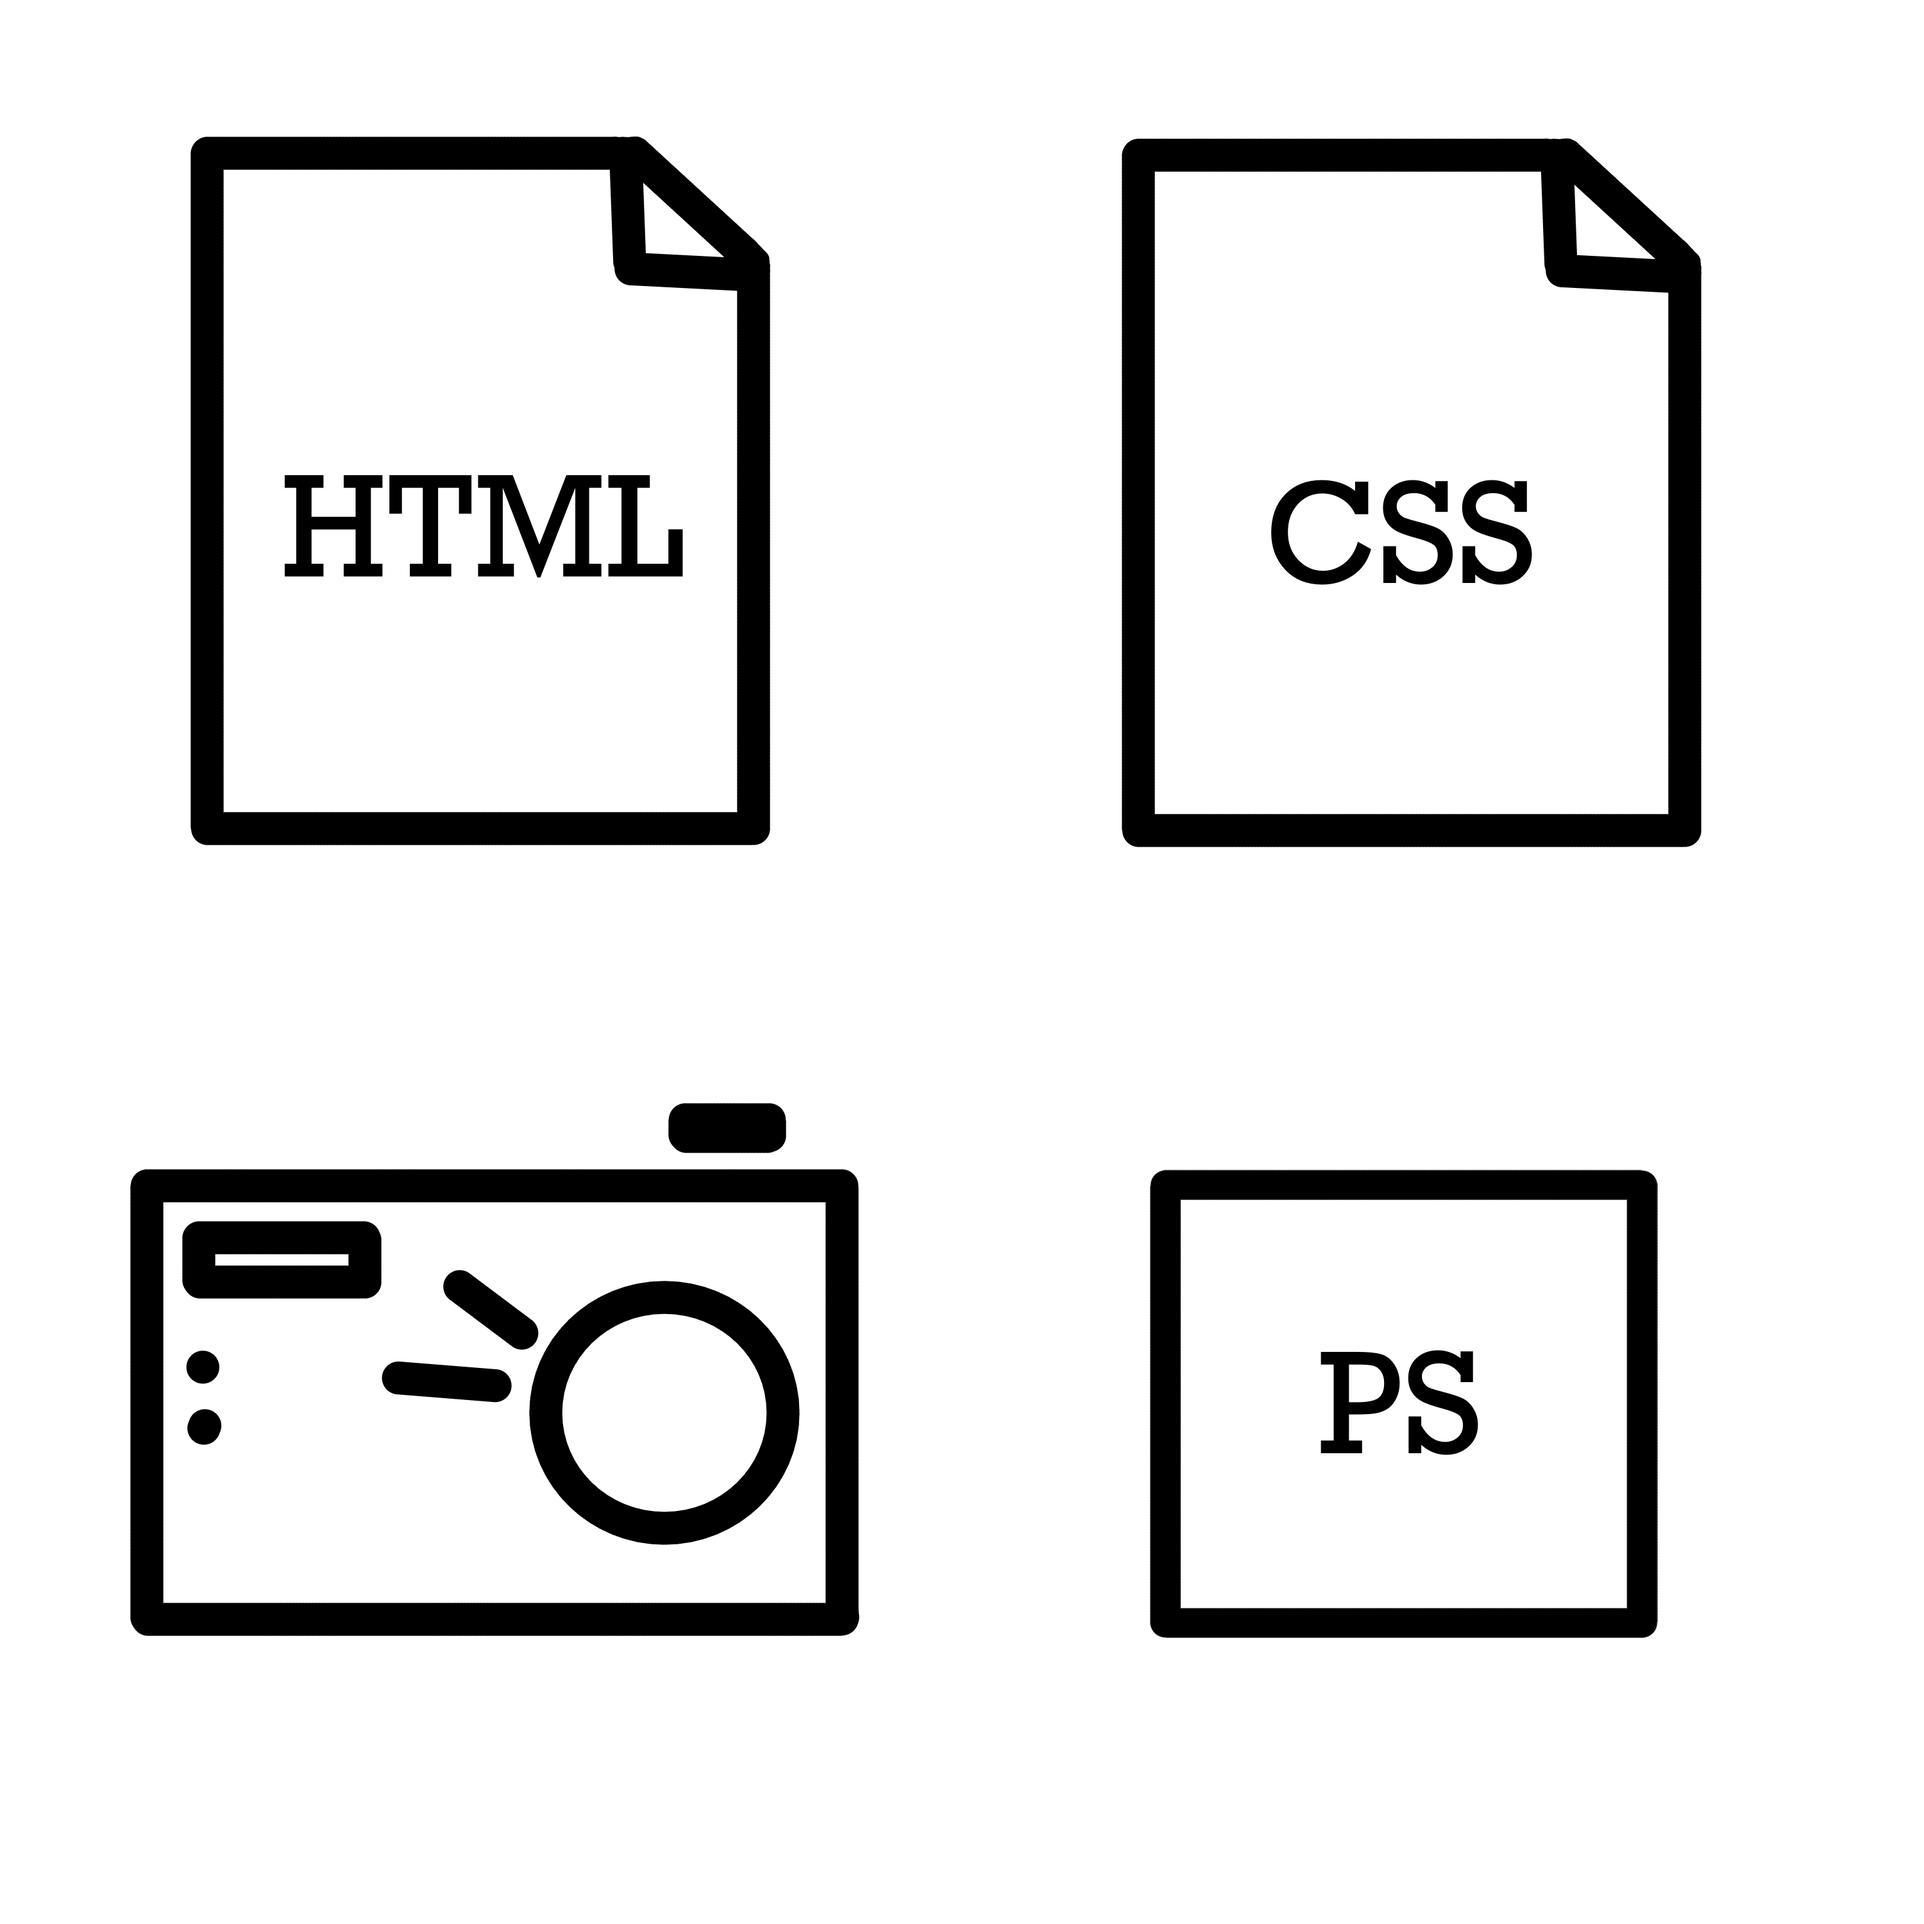
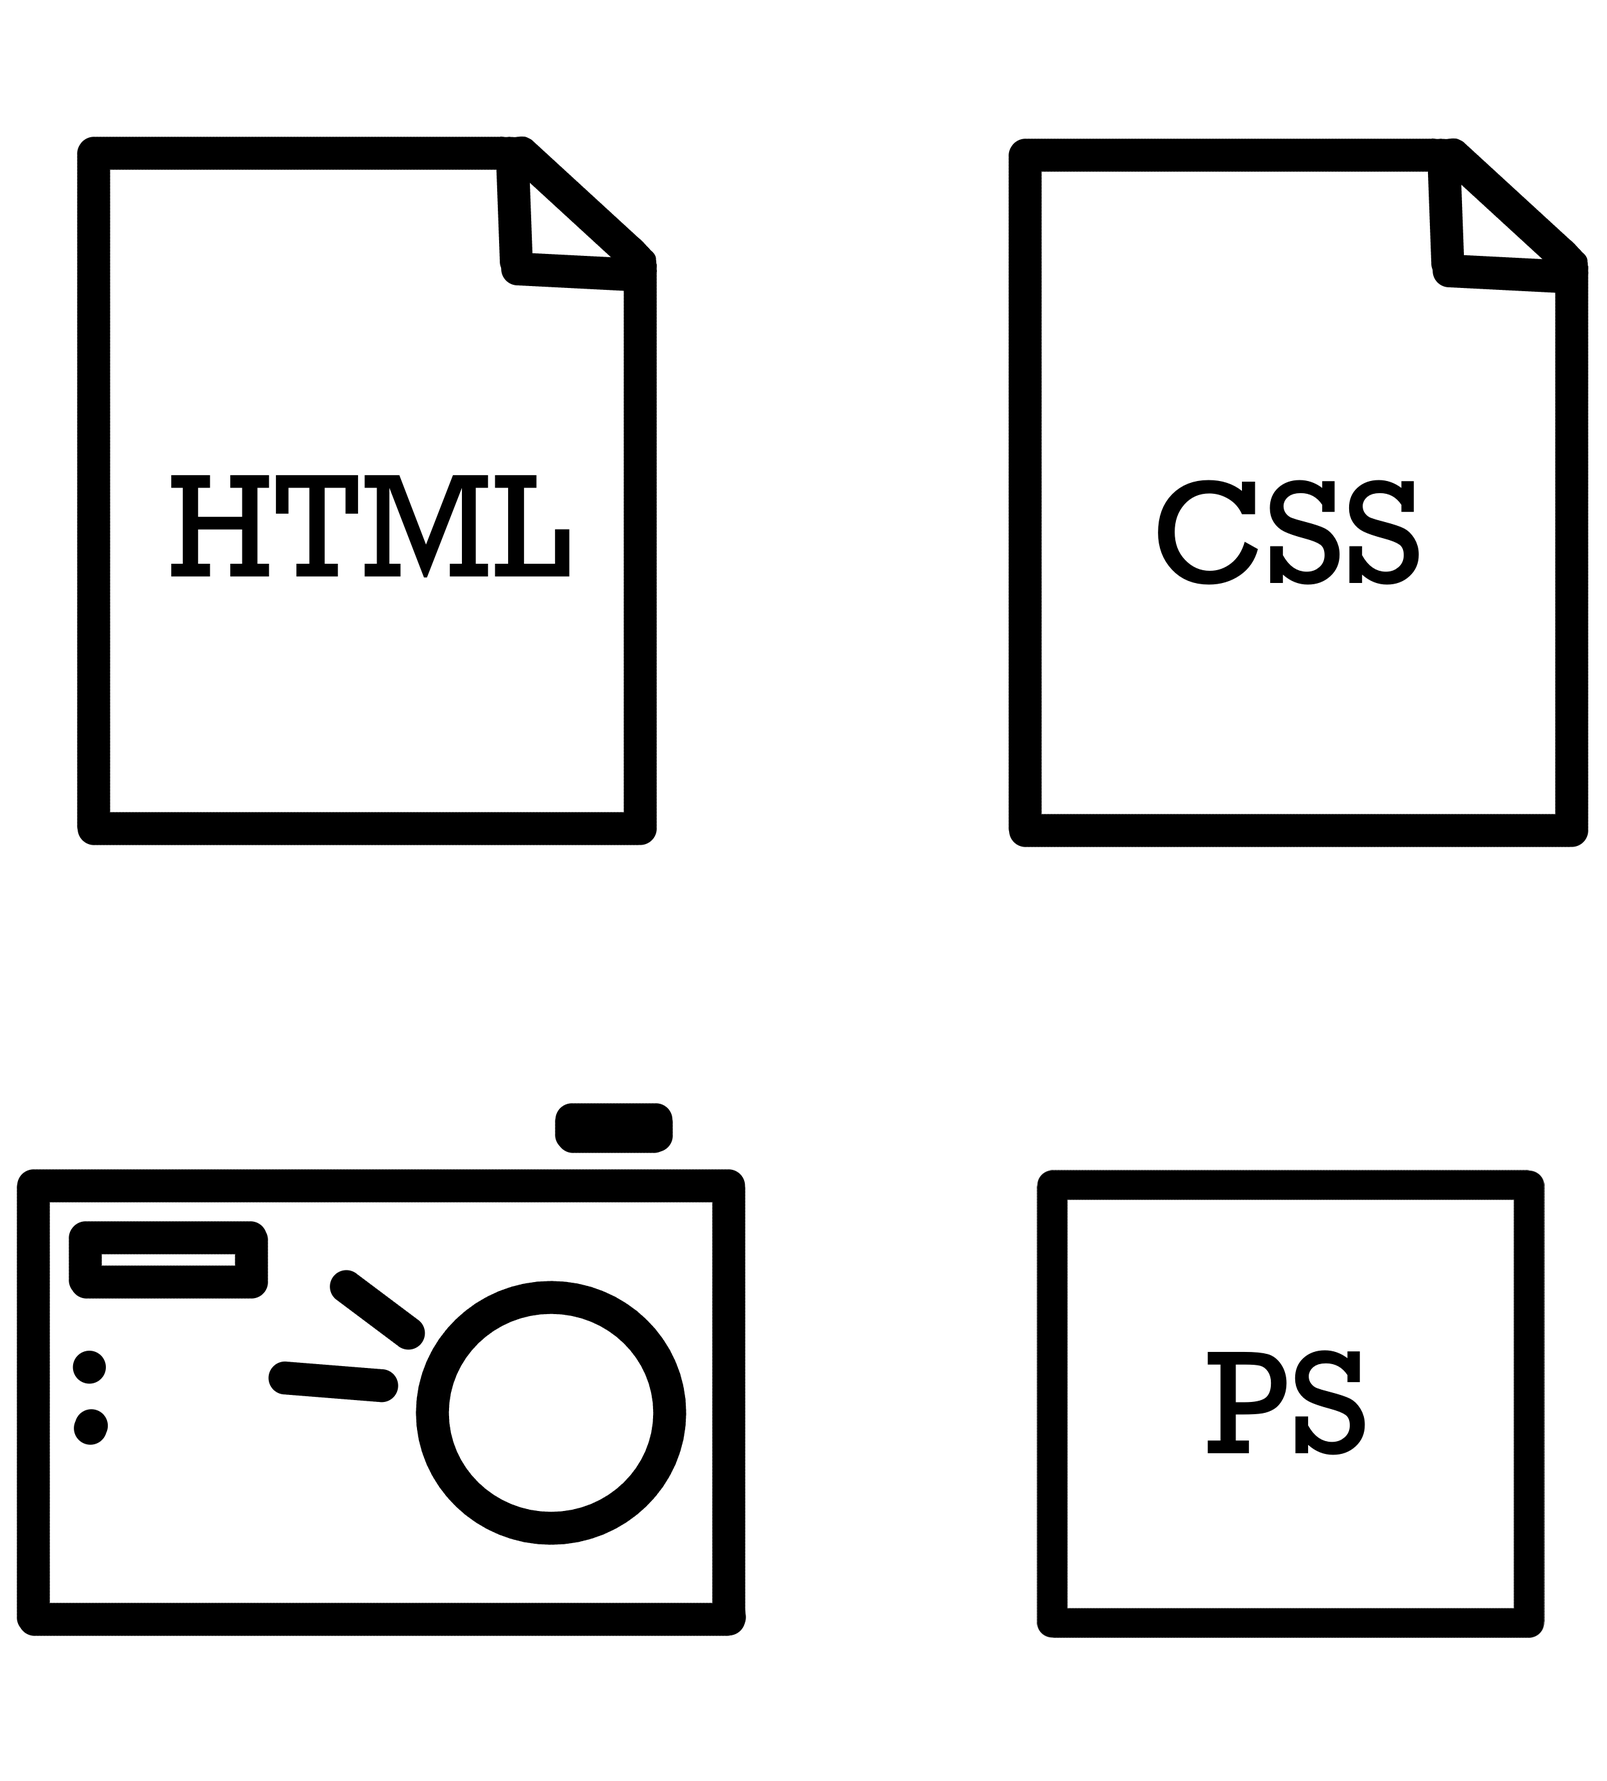
Made changes in layout
changed margins , widths, font sizes

diff --git a/style.css b/style.css
@@ -64,12 +64,13 @@ li a {
 
 .intro h1{
  
-    height: 40px;
+    height: 30px;
     color: #ffff;
     font-family: rockwell;
     font-weight: lighter;
     font-family: 70px;
-    width: 250px;
+    font-size: 25px;
+    width: 230px;
     
     
    
@@ -91,7 +92,7 @@ li a {
   /* The typing effect */
 @keyframes typing {
     from { width: 0 }
-    to { h1-width: 65% }
+    to { width: 230px;}
 }
   
   /* The typewriter cursor effect */
@@ -159,7 +160,7 @@ h4{
     font-family: -apple-system, BlinkMacSystemFont, 'Segoe UI', Roboto, Oxygen, Ubuntu, Cantarell, 'Open Sans', 'Helvetica Neue', sans-serif;
     font-size: 25px;
     text-align: justify;
-    margin-top: 35px;
+    margin-top: 45px;
     margin-bottom: 0;
 
     
@@ -180,14 +181,14 @@ h4{
 
 .skillsv{
     display: block;
-    max-width: 300px;
+    max-width: 200px;
     margin: auto;
    
 }
 
 .languagesv{
     display: block;
-    width: 360px;
+    width: 100%;
     margin: auto;
   
 }
@@ -203,9 +204,12 @@ h4{
 .tools{
     
     border-radius: 3px;
-    width: 100%;
+    width: 300px;
     margin-top: 60px;
     margin-bottom: 30px;
+    margin-left: auto;
+    display: block;
+    margin-right: auto;
 }
 
 .ToolsWithPs{
@@ -226,6 +230,7 @@ h4{
     margin-bottom: 30px;
     
 }
+
 .website{
     border: solid #000;
     border-radius: 3px;
@@ -369,12 +374,12 @@ footer img{
 
 
 
-@media (min-width: 1000px) {
-    
+@media (min-width: 1000px) {    
 
 html{
     margin: 50px;
 }
+
 
 nav li{
     float: right;
@@ -400,10 +405,18 @@ li a{
 .intro h1{
     text-align: center;
     width: 60%;
-    padding: 40px;
+    padding: 20px;
     margin-top: 300px;
     font-size: 70px;
+    height: 60px;
+    width: 620px ;
 }
+
+@keyframes typing {
+    from { width: 0 }
+    to { width: 620px;}
+}
+
 .aboutme{
     flex-direction: row;
     justify-content: space-between;
@@ -456,6 +469,9 @@ h4{
     z-index: 2;
 }
 
+.projects h3{
+    margin-top: 55px;
+}
 .H2 {
     display: none;
 }
@@ -473,7 +489,7 @@ h4{
 }
 .VerticalLine{
     background-color: #000;
-    margin-top: -55px;
+    margin-top: -56px;
     margin-bottom:-76px ;
    
     width: 2px;
@@ -482,8 +498,8 @@ h4{
 
 
 .projectpic{
-    margin-top: 40px;
-    margin-bottom: 40px;
+    margin-top: 60px;
+    margin-bottom: 60px;
 }
 
 
@@ -491,6 +507,7 @@ h4{
    
     margin-bottom: 0;
     display: block;
+  
     margin-left: auto;
     margin-right: auto;
     width: 450px ;
@@ -521,16 +538,18 @@ h4{
     display: flex;
     flex-direction: row;
     justify-content: space-between;
-    margin-bottom: 40px;
+    margin-bottom: 60px;
 }
 
 .process{
     margin: 0px;
+    font-size: 25px;
    
 }
 
 .website{
     margin: 0px;
+    font-size: 25px;
 
 }
 .SpaceOdyssey{
@@ -554,16 +573,23 @@ h4{
 }
 
 .projects-camera{
+    margin-top: 50px;
     flex-direction: row-reverse;
     justify-content: space-between;
 }
 
+.projects-camera h3{
+
+    margin-top: 14px;
+}
+
 .slideshow-container{
-    width: 44%;
+    width: 30%;
+    margin-left: 7%;
 }
 
 footer{
-    height: 300px;
+    height: 350px;
     margin-top: 20px;
     
 }

diff --git a/portfolio.html b/portfolio.html
@@ -40,7 +40,7 @@
     <section class="intro">
     
         <h1 class="typewriter">
-            Hi, my name is Arta!
+            Hi,  my name is Arta!
         </h1>
        
         <img class="me" src="/images/myface.png.png" alt="">
